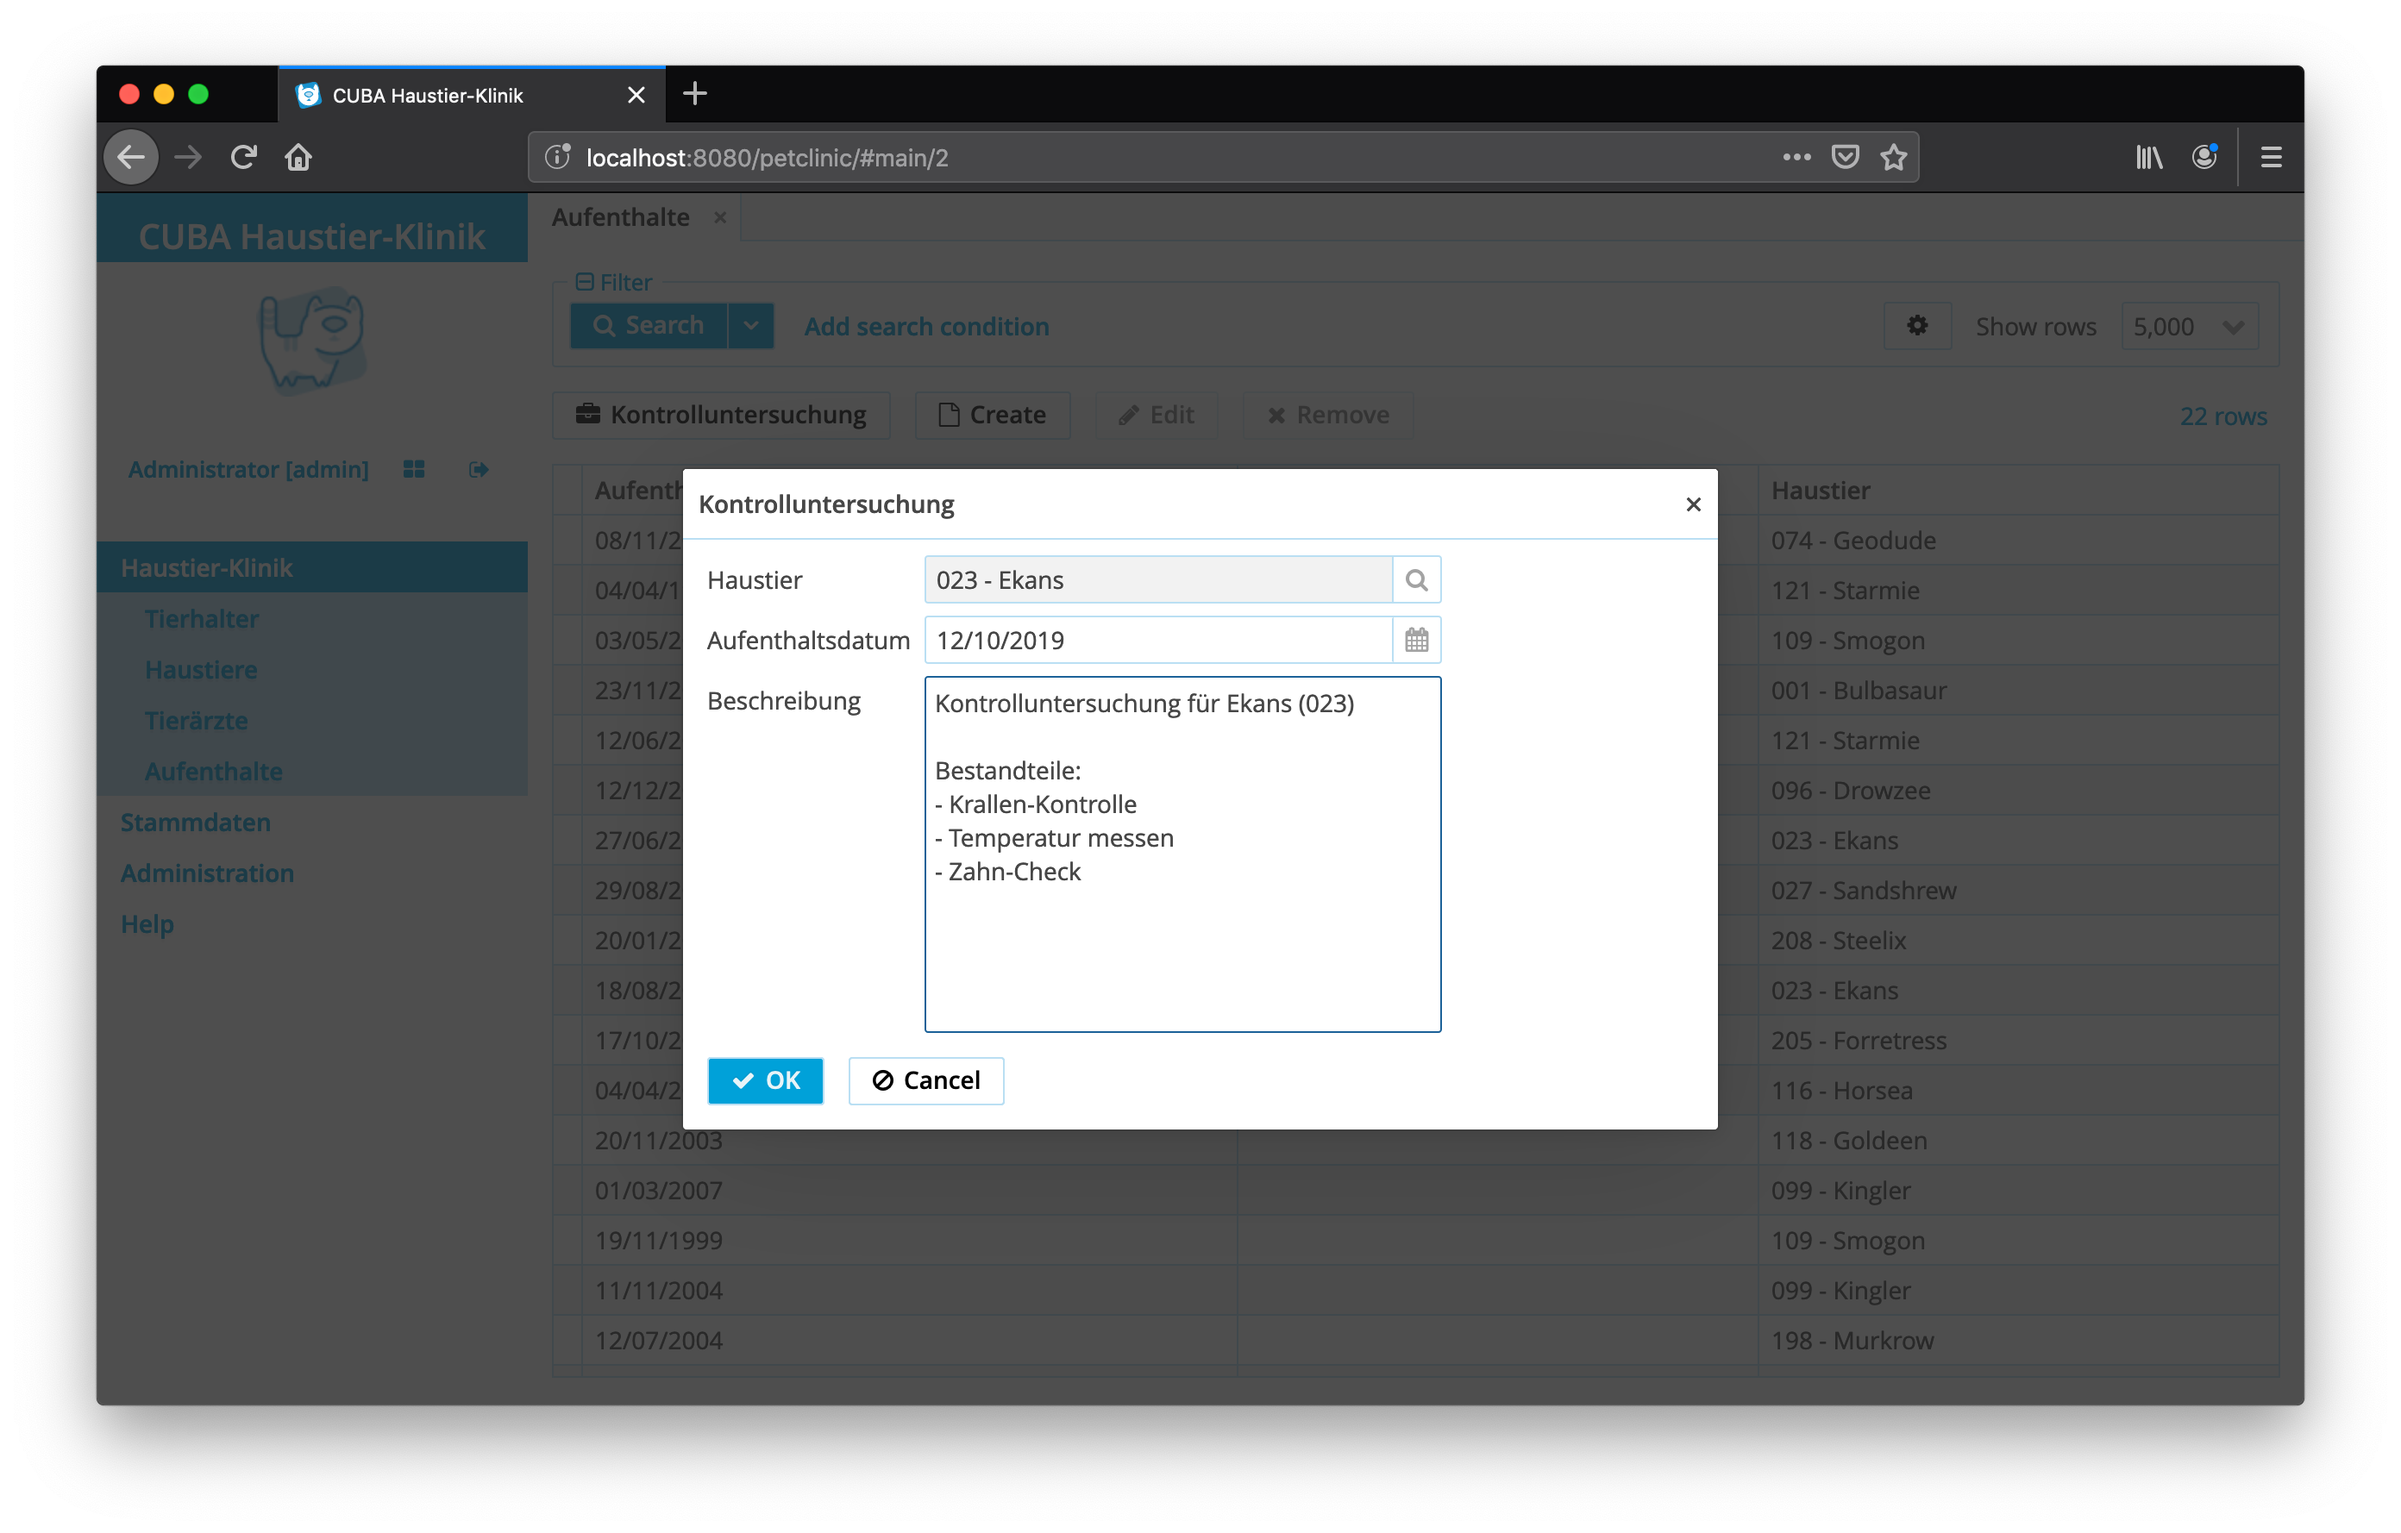
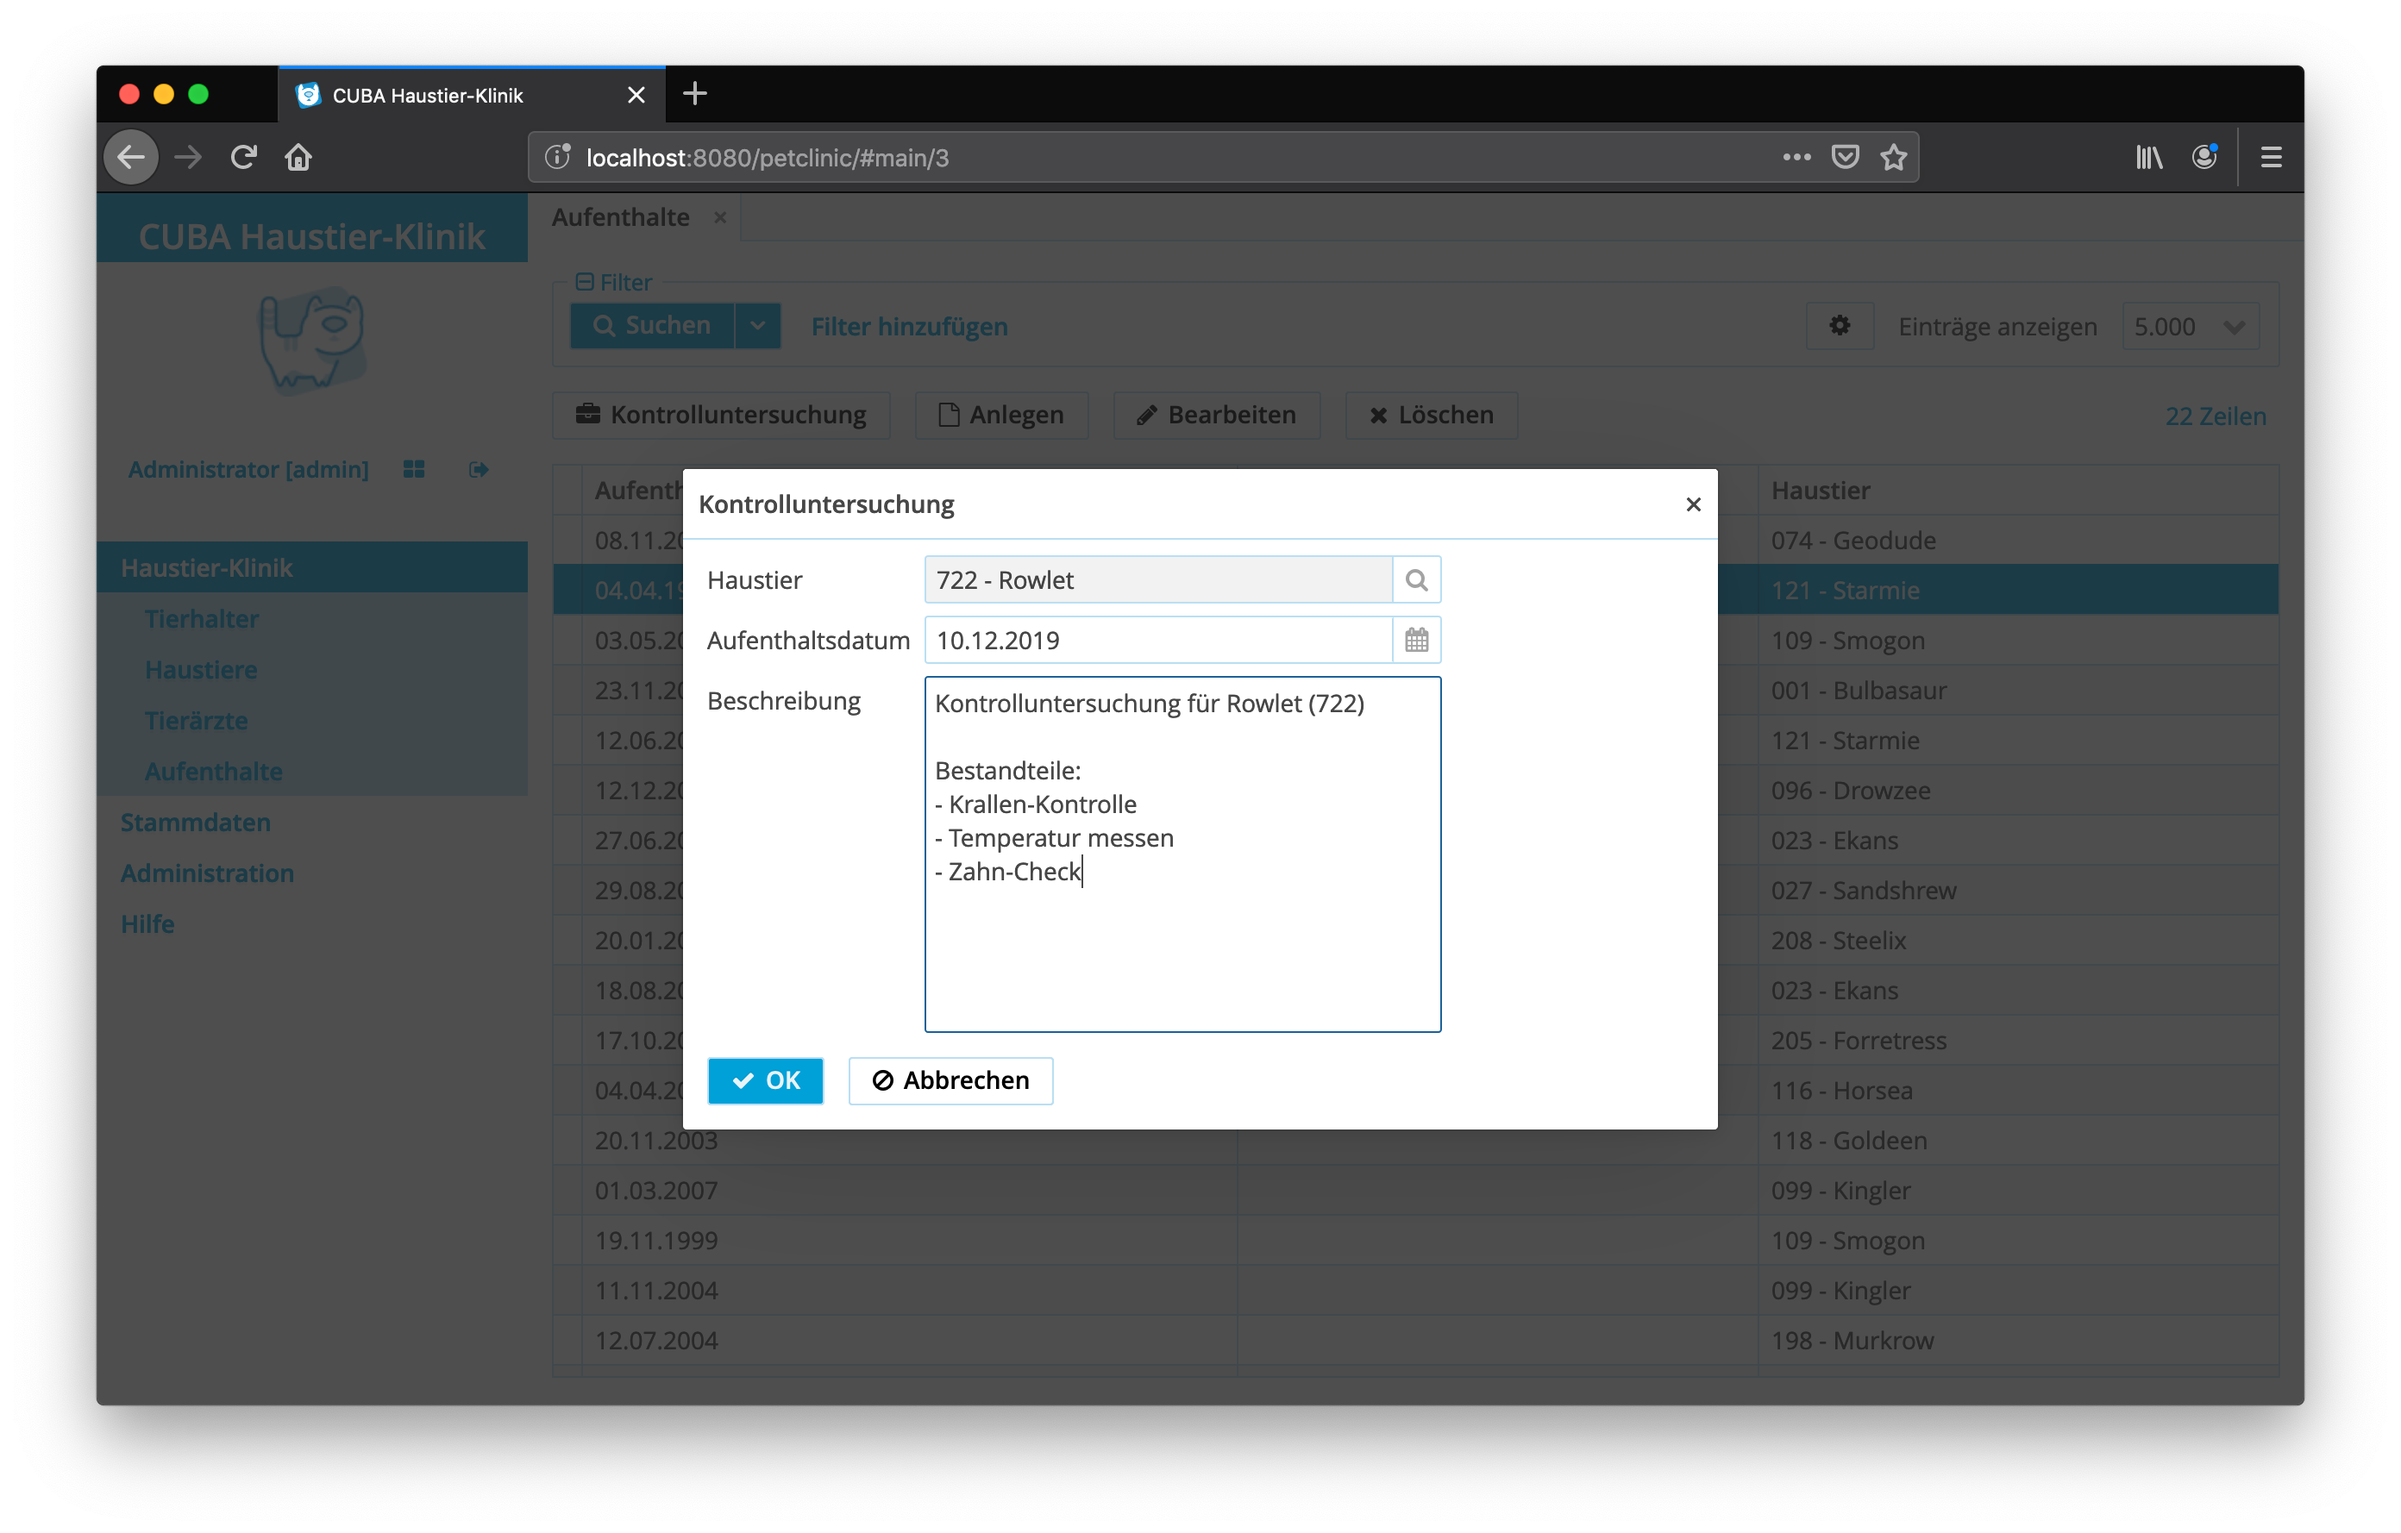
Built from 854f895

diff --git a/localization-in-cuba-applications.html b/localization-in-cuba-applications.html
@@ -624,7 +624,32 @@ The Community Translations Packs are provided by the community, therefore the ac
 which makes the installation as easy as installing any other application component.</p>
 </div>
 <div class="paragraph">
-<p>Afterwards, the only thing to do is to add the new language to the application property <code>cuba.availableLocales</code>.</p>
+<p>In the Petclinic example, as the destination language is german, there is already an existing translation application component available: <a href="https://www.cuba-platform.com/marketplace/german-localization/">German Localization</a> which is utilized.</p>
+</div>
+<div class="admonitionblock tip">
+<table>
+<tr>
+<td class="icon">
+<i class="fa icon-tip" title="Tip"></i>
+</td>
+<td class="content">
+<div class="paragraph">
+<p>The application component can be installed in CUBA Studio via the following menu:</p>
+</div>
+<div class="paragraph">
+<p><code>CUBA &gt; Project Properties &gt; Custom Components</code>.</p>
+</div>
+<div class="imageblock text-center">
+<div class="content">
+<img src="/guides/images/i18n-messages/cuba-studio-add-translation-component.png" alt="cuba studio add translation component">
+</div>
+</div>
+</td>
+</tr>
+</table>
+</div>
+<div class="paragraph">
+<p>Afterwards, the only thing to do is to add the new language to the application property <code>cuba.availableLocales</code> manually. Alternatively this can also be done via the the above shown Project Properties screen in CUBA Studio.</p>
 </div>
 </div>
 <div class="sect2">
